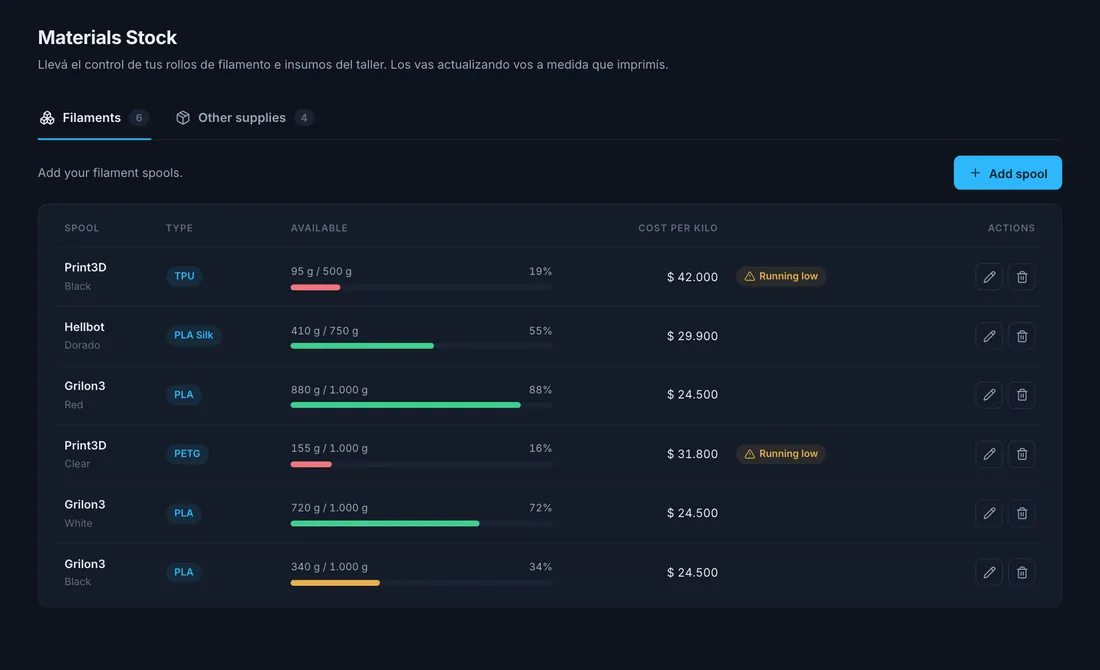
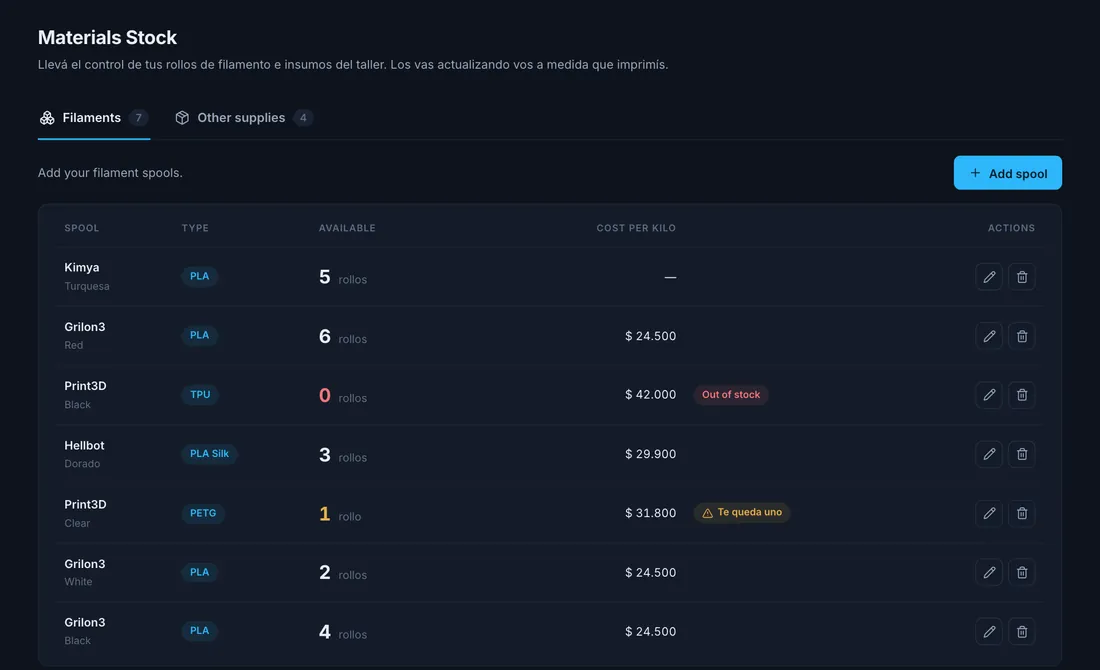
feat(stock): "Disponible" pasa a ser cuantos rollos hay
Antes cada fila era UN rollo y la columna llevaba los gramos que quedaban, con
una barra de progreso: habia que pesar el rollo para que el numero sirviera. Se
cambia a pedido de Adriana: la fila ahora es "de este filamento, en esta marca,
tipo y color, tengo N rollos", que es lo que una mira en el estante.

La columna muestra el numero grande y avisa sola: en 0 dice "Agotado" en rojo, y
en 1 dice "Te queda uno" en ambar. El formulario pasa de dos campos de peso a
uno solo, "Cuantos rollos tenes".

Los rollos ya cargados arrancan en 1 si les quedaba filamento y en 0 si estaban
vacios. Las columnas de peso quedan en la tabla aunque ya no se muestren:
borrarlas seria tirar datos que alguien pudo haber cargado.

De paso, un error mio: a la columna nueva le habia puesto la clase "cant", que
ya la usaban los contadores de las pestañas de arriba, y les deformaba el fondo.
Renombrada.

La captura del adelanto se saco de nuevo en los dos idiomas: mostraba las barras
de gramos, que ya no existen.

diff --git a/comunidad/stock.php b/comunidad/stock.php
@@ -40,31 +40,30 @@ if ($_SERVER['REQUEST_METHOD'] === 'POST') {
         $marca  = mb_substr(trim($_POST['marca'] ?? ''), 0, 100);
         $tipo   = in_array($_POST['tipo'] ?? '', taller_tipos_rollo(), true) ? $_POST['tipo'] : 'PLA';
         $color  = mb_substr(trim($_POST['color'] ?? ''), 0, 60);
-        $peso_o = max(1, (int) ($_POST['peso_original'] ?? 0));
-        $peso_d = max(0, (int) ($_POST['peso_disponible'] ?? 0));
-        $costo  = max(0, (float) str_replace(',', '.', $_POST['costo_kilo'] ?? '0'));
+        // Cuantos rollos hay de este filamento. Tope alto por si alguien
+        // compra por cantidad, pero acotado para que no entre cualquier cosa.
+        $cant  = max(0, min(9999, (int) ($_POST['cantidad'] ?? 0)));
+        $costo = max(0, (float) str_replace(',', '.', $_POST['costo_kilo'] ?? '0'));
 
         if ($marca === '' || $color === '') {
             $error = 'Completá la marca y el color del rollo.';
-        } elseif ($peso_d > $peso_o) {
-            $error = 'El peso disponible no puede ser mayor que el peso original.';
         } else {
             if ($id > 0) {
-                $db->prepare('UPDATE rollos SET marca=?, tipo=?, color=?, peso_original=?, peso_disponible=?, costo_kilo=?
+                $db->prepare('UPDATE rollos SET marca=?, tipo=?, color=?, cantidad=?, costo_kilo=?
                               WHERE id=? AND usuario_id=?')
-                   ->execute([$marca, $tipo, $color, $peso_o, $peso_d, $costo, $id, $uid]);
+                   ->execute([$marca, $tipo, $color, $cant, $costo, $id, $uid]);
                 header('Location: stock.php?ok=rollo_edit');
             } else {
-                $db->prepare('INSERT INTO rollos (usuario_id, marca, tipo, color, peso_original, peso_disponible, costo_kilo, creado_en)
-                              VALUES (?,?,?,?,?,?,?,NOW())')
-                   ->execute([$uid, $marca, $tipo, $color, $peso_o, $peso_d, $costo]);
+                $db->prepare('INSERT INTO rollos (usuario_id, marca, tipo, color, cantidad, costo_kilo, creado_en)
+                              VALUES (?,?,?,?,?,?,NOW())')
+                   ->execute([$uid, $marca, $tipo, $color, $cant, $costo]);
                 header('Location: stock.php?ok=rollo_nuevo');
             }
             exit;
         }
         $tab = 'filamentos';
         $abrir_rollo = ['id' => $id, 'marca' => $marca, 'tipo' => $tipo, 'color' => $color,
-                        'peso_original' => $peso_o, 'peso_disponible' => $peso_d, 'costo_kilo' => $costo];
+                        'cantidad' => $cant, 'costo_kilo' => $costo];
     } elseif ($accion === 'rollo_eliminar') {
         $db->prepare('DELETE FROM rollos WHERE id=? AND usuario_id=?')
            ->execute([(int) ($_POST['id'] ?? 0), $uid]);
@@ -176,13 +175,14 @@ ui_panel_inicio('Stock Materiales', $u, 'Stock Materiales');
       .rollo-nom small{font-size:12px;color:var(--txt-3)}
       .chip-tipo{display:inline-block;font-size:11.5px;font-weight:600;padding:3px 10px;border-radius:999px;
               background:var(--accent-tinte);color:var(--accent)}
-      .nivel{min-width:190px}
-      .nivel .datos{display:flex;justify-content:space-between;font-size:12px;color:var(--txt-2);
-              font-variant-numeric:tabular-nums;margin-bottom:5px}
-      .nivel .pista{height:7px;border-radius:999px;background:var(--surface-2);overflow:hidden}
-      .nivel .pista i{display:block;height:100%;border-radius:999px;background:var(--ok)}
-      .nivel.medio .pista i{background:var(--warn)}
-      .nivel.bajo .pista i{background:var(--bad)}
+      /* La columna es un numero de rollos, no una barra de gramos.
+         Nombre propio y no .cant: esa clase ya la usan los contadores de las
+         pestañas de arriba, y les rompia el fondo. */
+      .rollos-cant{min-width:120px}
+      .rollos-cant b{font-size:22px;font-weight:700;font-variant-numeric:tabular-nums;color:var(--txt)}
+      .rollos-cant span{font-size:13px;color:var(--txt-3);margin-left:5px}
+      .rollos-cant.poco b{color:var(--warn)}
+      .rollos-cant.agotado b{color:var(--bad)}
       .badge-bajo{display:inline-flex;align-items:center;gap:5px;font-size:11.5px;font-weight:600;
               padding:3px 10px;border-radius:999px;background:var(--warn-tinte);color:var(--warn)}
       .badge-agotado{display:inline-flex;font-size:11.5px;font-weight:600;padding:3px 10px;border-radius:999px;
@@ -215,7 +215,7 @@ ui_panel_inicio('Stock Materiales', $u, 'Stock Materiales');
       .drawer .fila-2{display:grid;grid-template-columns:1fr 1fr;gap:12px}
       .btn-suave{background:none;border:none;color:var(--txt-2);font-size:14px;font-weight:600;cursor:pointer;padding:10px 14px}
       .btn-suave:hover{color:var(--txt)}
-      @media (max-width:700px){ .nivel{min-width:130px} .tabla-caja{padding:2px 10px} }
+      @media (max-width:700px){ .rollos-cant{min-width:0} .tabla-caja{padding:2px 10px} }
     </style>
 
     <div class="tabs">
@@ -251,26 +251,21 @@ ui_panel_inicio('Stock Materiales', $u, 'Stock Materiales');
           </tr></thead>
           <tbody>
           <?php foreach ($rollos as $r):
-              $pct = $r['peso_original'] > 0 ? $r['peso_disponible'] / $r['peso_original'] * 100 : 0;
-              $clase = $pct <= 0 ? 'bajo' : ($pct <= 20 ? 'bajo' : ($pct <= 50 ? 'medio' : '')); ?>
+              $cant = (int) $r['cantidad']; ?>
             <tr>
               <td class="rollo-nom"><b><?php echo htmlspecialchars($r['marca']); ?></b>
                 <small><?php echo htmlspecialchars($r['color']); ?></small></td>
               <td><span class="chip-tipo"><?php echo htmlspecialchars($r['tipo']); ?></span></td>
-              <td class="nivel <?php echo $clase; ?>">
-                <div class="datos">
-                  <span><?php echo number_format((int) $r['peso_disponible'], 0, ',', '.'); ?> g
-                        / <?php echo number_format((int) $r['peso_original'], 0, ',', '.'); ?> g</span>
-                  <span><?php echo round($pct); ?>%</span>
-                </div>
-                <div class="pista"><i style="width:<?php echo max(0, min(100, round($pct, 1))); ?>%"></i></div>
+              <td class="rollos-cant <?php echo $cant === 0 ? 'agotado' : ($cant === 1 ? 'poco' : ''); ?>">
+                <b><?php echo $cant; ?></b>
+                <span><?php echo $cant === 1 ? 'rollo' : 'rollos'; ?></span>
               </td>
               <td class="num"><?php echo $r['costo_kilo'] > 0 ? taller_precio($r['costo_kilo']) : '—'; ?></td>
               <td>
-                <?php if ((int) $r['peso_disponible'] <= 0): ?>
+                <?php if ($cant === 0): ?>
                   <span class="badge-agotado">Agotado</span>
-                <?php elseif ($pct <= 20): ?>
-                  <span class="badge-bajo"><?php echo ui_icono('alerta', 13); ?>Queda poco</span>
+                <?php elseif ($cant === 1): ?>
+                  <span class="badge-bajo"><?php echo ui_icono('alerta', 13); ?>Te queda uno</span>
                 <?php endif; ?>
               </td>
               <td>
@@ -387,22 +382,11 @@ ui_panel_inicio('Stock Materiales', $u, 'Stock Materiales');
               <option>Violeta</option><option>Rosa</option><option>Transparente</option>
             </datalist>
 
-            <p class="intro">Si el rollo es nuevo, los dos valores son iguales. Si ya lo empezaste a usar,
-               cargá el peso original (cuando estaba lleno) y cuánto te queda hoy.</p>
-            <div class="fila-2">
-              <span>
-                <label for="r-peso-o">Peso original (g)</label>
-                <input id="r-peso-o" type="number" name="peso_original" min="1" step="1" required
-                       value="<?php echo (int) ($abrir_rollo['peso_original'] ?? 1000); ?>">
-                <p class="ayuda">Cuánto pesa el rollo lleno (normalmente 1 kg = 1000 g).</p>
-              </span>
-              <span>
-                <label for="r-peso-d">Peso disponible (g)</label>
-                <input id="r-peso-d" type="number" name="peso_disponible" min="0" step="1" required
-                       value="<?php echo (int) ($abrir_rollo['peso_disponible'] ?? 1000); ?>">
-                <p class="ayuda">Lo que te queda hoy. Si es nuevo, dejalo igual al peso original.</p>
-              </span>
-            </div>
+            <label for="r-cant">Cuántos rollos tenés</label>
+            <input id="r-cant" type="number" name="cantidad" min="0" max="9999" step="1" required
+                   inputmode="numeric" value="<?php echo (int) ($abrir_rollo['cantidad'] ?? 1); ?>">
+            <p class="ayuda">De este filamento, en esta marca, tipo y color. Lo vas cambiando
+               a medida que gastás o comprás.</p>
 
             <label for="r-costo">Costo por kilo (opcional)</label>
             <input id="r-costo" type="number" name="costo_kilo" min="0" step="0.01"

diff --git a/comunidad/inc/taller.php b/comunidad/inc/taller.php
@@ -148,6 +148,20 @@ function taller_migrar() {
             REFERENCES usuarios(id) ON DELETE CASCADE
     ) ENGINE=InnoDB DEFAULT CHARSET=utf8mb4");
 
+    // Cuantos rollos hay de esa marca, tipo y color. Antes cada fila era UN rollo
+    // y se llevaban los gramos; ahora la fila es "de este filamento tengo N".
+    // Los gramos quedan en la tabla pero ya no se muestran: borrarlos seria
+    // tirar datos que alguien pudo haber cargado.
+    $stmt = $db->prepare("SELECT COUNT(*) c FROM information_schema.COLUMNS
+                           WHERE TABLE_SCHEMA = DATABASE()
+                             AND TABLE_NAME = 'rollos' AND COLUMN_NAME = 'cantidad'");
+    $stmt->execute();
+    if (!(int) $stmt->fetch()['c']) {
+        $db->exec("ALTER TABLE rollos ADD COLUMN cantidad INT NOT NULL DEFAULT 1 AFTER color");
+        // Un rollo ya cargado y sin gastar cuenta como uno; el vacio, como cero
+        $db->exec("UPDATE rollos SET cantidad = IF(peso_disponible > 0, 1, 0)");
+    }
+
     $db->exec("CREATE TABLE IF NOT EXISTS insumos (
         id BIGINT UNSIGNED NOT NULL AUTO_INCREMENT,
         usuario_id BIGINT UNSIGNED NOT NULL,
